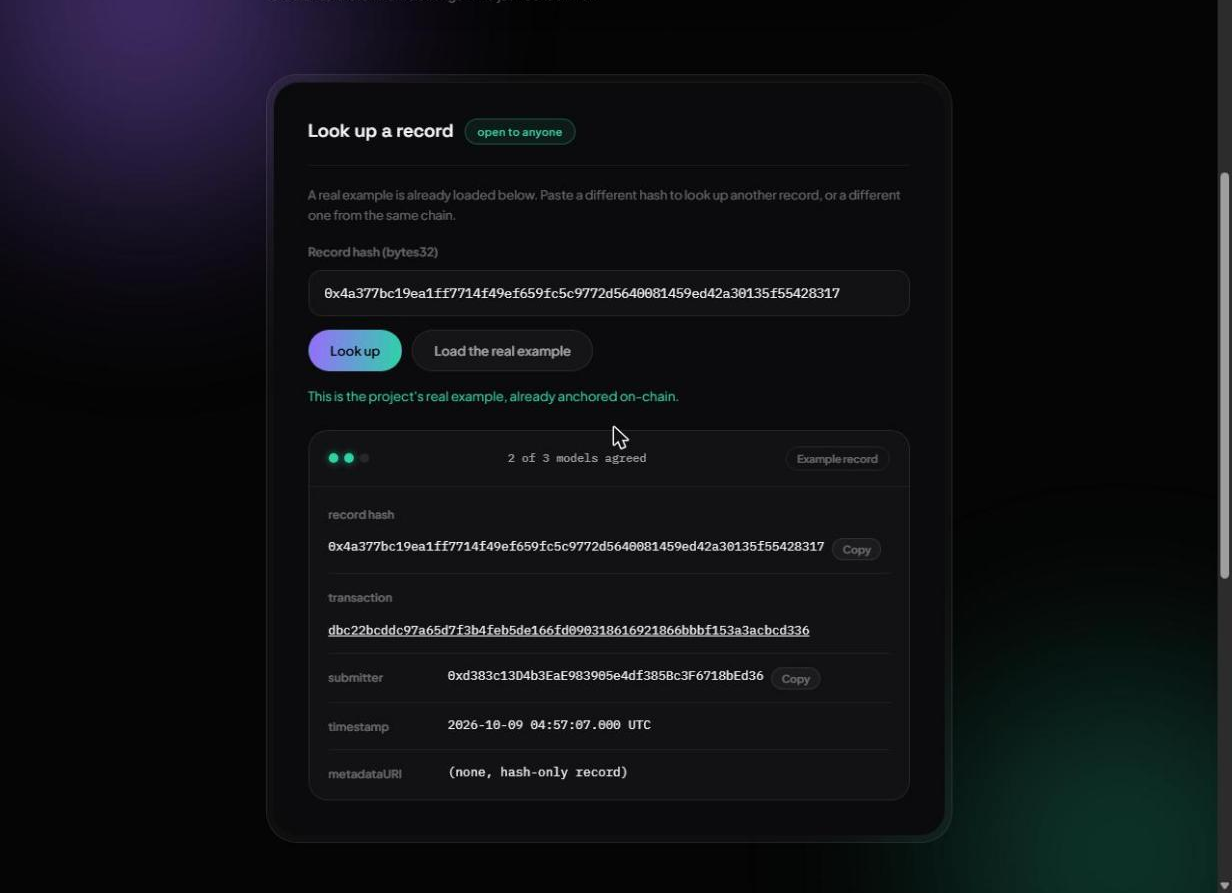
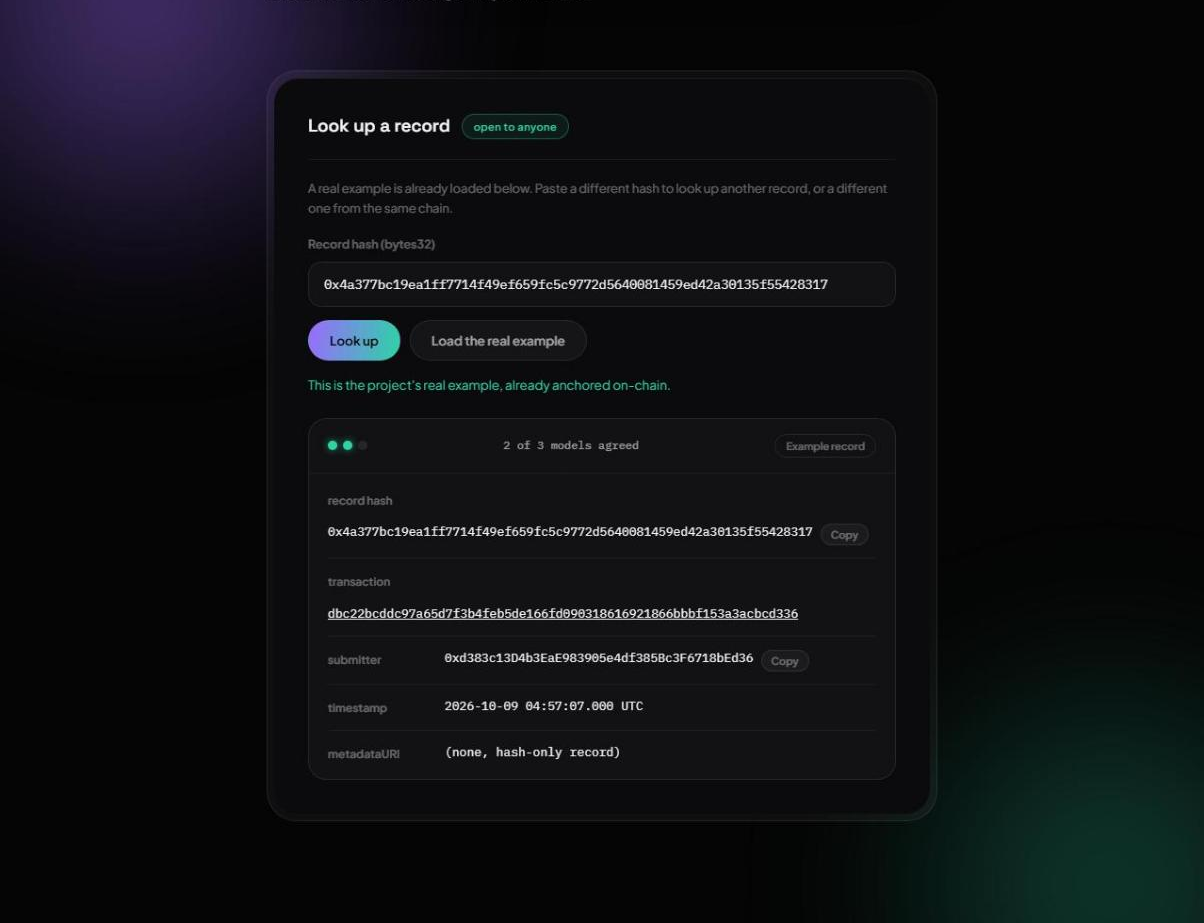
fix: retake record screenshot without the browser scrollbar

diff --git a/docs/decisions.md b/docs/decisions.md
@@ -588,3 +588,18 @@ Also added direct anchor links to the lookup and verify sections
 (`#lookup`, `#verify`), the redesign gave both sections real `id`
 attributes for the island nav, so the README could finally link each
 one specifically instead of just the page as a whole.
+
+## 2026-10-10 - Retook the record screenshot, visible scrollbar looked unprofessional
+
+The first record screenshot in the README's gallery was captured against
+the full OS-rendered scrollbar on the right edge of the browser, visible
+and distracting in a static image where no one can actually scroll.
+Retook it with the page's own scrollbar hidden via a one-off injected
+style before capturing (`scrollbar-width: none` / `::-webkit-scrollbar`),
+not by cropping it off, since cropping would have shifted the composition
+instead of just removing the artifact. Replaced
+`docs/screenshots/proof-viewer-record.png` in place, same crop otherwise.
+
+User also asked to stop the README from accumulating further unprompted.
+Noted as a standing rule in memory: fix or replace what's asked, don't
+keep adding new images or sections on top of it.
